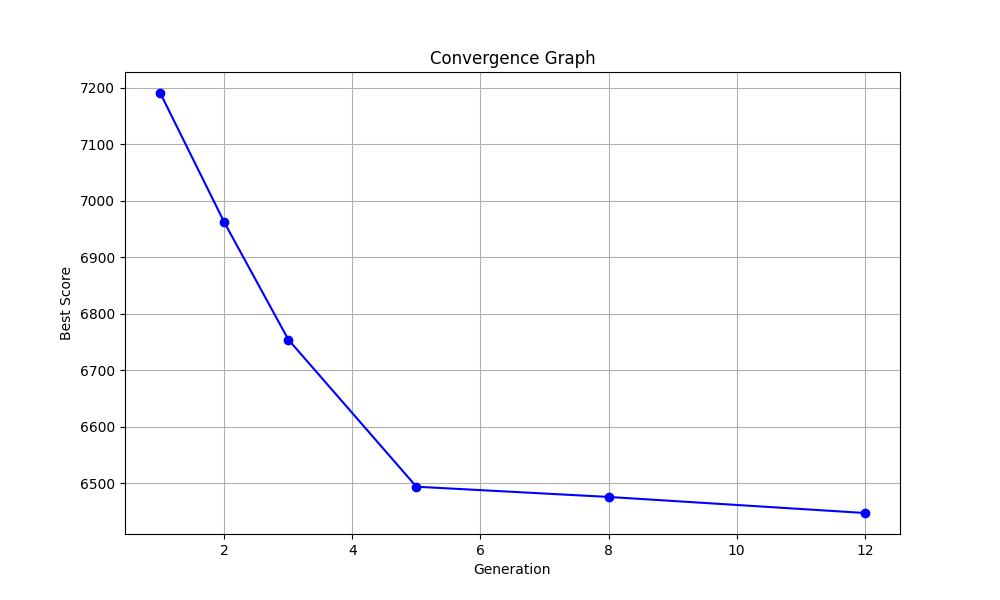
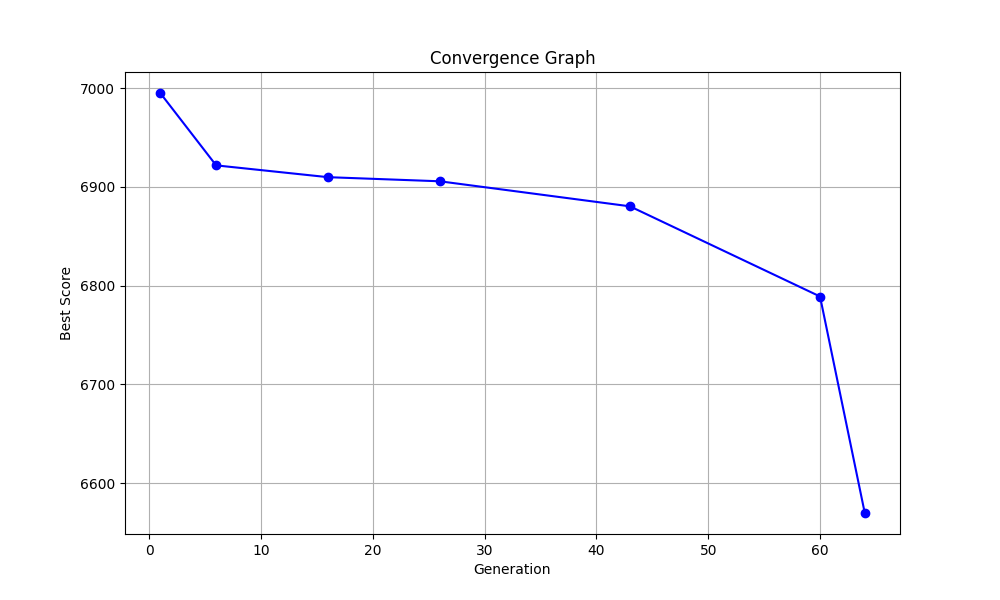
made some changes.

diff --git a/Obj_func_v2.2.py b/Obj_func_v2.2.py
@@ -1,0 +1,325 @@
+'''
+The purpose of this code is...
+
+
+Authors:
+ - Austin Erickson "The Brain"
+ - Isaac Detiege "The Muscle"
+ - Ammon Miller "The Milkman" (Copilot generated, lol)
+
+Last updated: 3/27/2025 around 3pm
+
+Notes:
+- Roll the dice method (40% p1, 40% p2, 20% mutation)
+
+'''
+#---------------------------------
+# Import 
+#---------------------------------
+import numpy as np
+import matplotlib.pyplot as plt
+from multiprocessing import Pool
+
+
+#---------------------------------
+# Functions
+#---------------------------------
+
+def string_to_index_optimized(string):
+    # Vectorized approach for string-to-index conversion
+    string = string.lower().replace(" ", "")
+    char_map = {chr(i + 97): i for i in range(26)}
+    char_map.update({'.': 26, ',': 27, '?': 28, "'": 29})
+    return np.array([char_map.get(char, -1) for char in string])
+    
+def objective_function_optimized(x, string_index):
+    home_positions = np.array([[1.5, 2], [3.5, 2.5], [5.5, 2.5], [7.5, 2.5]])  # Predefine finger positions
+    penalties = [0.5, 0, 0, 0]  # Pinky, Ring, Middle, Index penalties
+    same_finger_penalty = 0.5
+    
+    # Initialize counters
+    finger_counts = [0, 0, 0, 0]  # Pinky, Ring, Middle, Index
+    same_finger_penalty_count = 0
+    score = 0
+    
+    prev_active_finger = -1
+    prev_finger_position = np.inf
+    
+    for key in string_index:
+        next_finger_position = x[key]
+        if next_finger_position[0] <= 2:
+            next_active_finger = 0
+        elif next_finger_position[0] <= 4:
+            next_active_finger = 1
+        elif next_finger_position[0] <= 6:
+            next_active_finger = 2
+        else:
+            next_active_finger = 3
+
+        # Apply penalties
+        active_finger_penalty = penalties[next_active_finger]
+        finger_counts[next_active_finger] += 1
+        
+        # Same finger penalty logic
+        if prev_active_finger == next_active_finger:
+            same_finger_penalty_count += 1
+            same_finger_penalty_value = same_finger_penalty
+        else:
+            same_finger_penalty_value = 0
+
+        # Calculate distance
+        current_finger_position = home_positions[next_active_finger] if prev_active_finger != next_active_finger else prev_finger_position
+        distance = ((current_finger_position[0] - next_finger_position[0])**2 + (current_finger_position[1] - next_finger_position[1])**2)**0.5
+        
+        # Update score
+        score += distance + active_finger_penalty + same_finger_penalty_value
+        
+        # Update previous finger position and active finger
+        prev_active_finger = next_active_finger
+        prev_finger_position = next_finger_position
+    
+    return score, finger_counts
+
+def generate_individual():  
+    # Initialize person 
+    person = np.zeros((30,2))
+    used_pairs = set()
+
+    for i in range(30):
+        while True:
+            x_val = np.random.randint(1, 9)         # Random x value between 1 and 8
+            if x_val == 1 or x_val == 2:            # Pinky range
+                y_val = np.random.randint(1, 4)     # Choose y value between 1 and 3
+            else:                                   # Other fingers range
+                y_val = np.random.randint(1, 5)     # Choose y value between 1 and 4
+
+            if (x_val, y_val) not in used_pairs:
+                used_pairs.add((x_val, y_val))
+                person[i] = (x_val, y_val)
+                break
+    return person
+
+def generate_individual_parallel(_):
+    # This function is used by Pool to generate a single individual
+    return generate_individual()
+
+def generate_population_parallel(num_people):
+    # Use a Pool to generate individuals in parallel
+    with Pool() as pool:
+        population = pool.map(generate_individual_parallel, range(num_people))
+    return population
+
+def parallel_objective_function(args):
+    x, string_index = args
+    return objective_function_optimized(x, string_index)
+
+def generate_offspring(parents, number_offspring, roll_dice_parent):
+    offspring = []
+    while len(offspring) < number_offspring:
+        # Randomly select two parents
+        indices = np.random.choice(len(parents), size=2, replace=False)  # Sample indices
+        parent1, parent2 = parents[indices[0]], parents[indices[1]]  # Select parents using indices
+
+        # Create offspring from the two parents
+        child = np.zeros_like(parent1)  # Initialize empty offspring
+
+        used_keys = set()  # Track which key positions have been used
+
+        while len(used_keys) < 30:  # Ensure all keys are assigned
+            for i in range(30):
+                if tuple(child[i]) in used_keys:  # Skip if already used
+                    continue
+
+                rand = np.random.rand()  # Generate a random number between 0 and 1
+
+                # Choose parent or mutation based on probability
+                if rand < roll_dice_parent:  
+                    if tuple(parent1[i]) not in used_keys:
+                        child[i] = parent1[i]  # Inherit from parent1
+                        used_keys.add(tuple(parent1[i]))
+                elif rand < (2 * roll_dice_parent):  
+                    if tuple(parent2[i]) not in used_keys:
+                        child[i] = parent2[i]  # Inherit from parent2
+                        used_keys.add(tuple(parent2[i]))
+                else:  
+                    while True:  # Generate a random position if mutation occurs
+                        x_val = np.random.randint(1, 9)
+                        y_val = np.random.randint(1, 4) if x_val <= 2 else np.random.randint(1, 5)
+                        if (x_val, y_val) not in used_keys:
+                            child[i] = [x_val, y_val]  # Assign new random position
+                            used_keys.add((x_val, y_val))
+                            break
+
+        offspring.append(child)  # Add the child to the offspring list
+
+    return offspring
+
+
+def genetic_algorithm_optimized(f, num, perc, roll, tol, gen_limit, string_index):
+    number_people = num[0]
+    number_offspring = num[1]
+    perc_clone = perc[0]
+    perc_parents = perc[1]
+    perc_offspring = perc[2]
+    roll_dice_parent = roll[0]
+    roll_dice_mutation = roll[1]
+
+    population = generate_population_parallel(number_people)
+    best_score_unchanged_count = 0
+    history_best_score = float('inf')
+    best_individuals = []
+    best_scores = []
+    best_counters = []
+    gen_counter = 0
+
+    while gen_counter < gen_limit:
+        gen_counter += 1
+        print("Generation:", gen_counter)
+
+        # Parallel fitness evaluation using Pool
+        with Pool() as pool:
+            fitness_results = pool.map(parallel_objective_function, [(p, string_index) for p in population])
+        
+        sorted_data = sorted(zip(population, fitness_results), key=lambda x: x[1][0])
+        sorted_population = [x[0] for x in sorted_data]
+        best_score, best_counter = sorted_data[0][1]
+        
+        # Store the best individual data
+        best_individuals.append(sorted_population[0])
+        best_scores.append(best_score)
+        best_counters.append(best_counter)
+        
+        # Update convergence criteria
+        if best_score < history_best_score:
+            history_best_score = best_score
+            best_score_unchanged_count = 0
+            print("Best Score:", best_score)
+        else:
+            best_score_unchanged_count += 1
+
+        if best_score_unchanged_count >= tol:
+            break
+
+        ## Selection ##
+        clone = sorted_population[:int(number_people * perc_clone)]
+        parents = sorted_population[:int(number_people * perc_parents)]
+
+        ## Crossover ##
+        offspring = generate_offspring(parents, number_offspring, roll_dice_parent)
+
+        population = clone + offspring
+
+    return best_individuals, best_scores, best_counters
+
+
+def print_keyboard_layout(x):
+    layout = [[" " for _ in range(8)] for _ in range(4)]
+    letters = "abcdefghijklmnopqrstuvwxyz.,?'"
+    
+    for i in range(30):
+        x_pos = int(x[i][0]) - 1
+        y_pos = 3 - (int(x[i][1]) - 1)  # Flip the y-axis
+        layout[y_pos][x_pos] = letters[i]
+    
+    print("  1 2 3 4 5 6 7 8")
+    print(" +----------------")
+    for i in range(4):
+        row = f"{4-i}| " + " ".join(layout[i])  # Adjust row numbering
+        print(row)
+        
+
+string = "The sun’s warm glow fell across the field. A breeze stirred, rustling leaves as birds chirped. The dog’s bark echoed while a cat lounged nearby. People walked along quiet paths, sharing thoughts. What joy exists in moments like these? Clouds drifted above, shadows shifting below. Foxes dashed through the brush. Time’s passage often feels swift. Yet, laughter lingers. Jars of jam lined the shelf. Vivid quilts hung, displaying vibrant hues. Zebras grazed in far-off lands. Quirky scenes unfold daily. Few question why. Life’s charm, both simple and profound, remains constant. Is there anything more precious than this? \" \
+    Children played along the park’s edge, their laughter mingling with the breeze. Ducks glided across the pond, ripples trailing behind. Tall trees stood in silent watch, their branches swaying softly. Nearby, a gardener tended flowers, carefully pruning each stem. The air smelled of fresh earth and blooming petals. Squirrels scampered up tree trunks, their tails flicking in delight. Nature thrived, unburdened by time’s relentless march. \
+    A man with a weathered hat sat upon a bench, his hands clasped together. His eyes traced the flight of a passing bird. What memories lingered within his thoughts? Each wrinkle on his face told a story, shaped by years of joy and sorrow. A nearby jogger passed, earbuds in, oblivious to the world around her. Life continued, ever in motion. \
+    By the water’s edge, a family spread a picnic blanket. Sandwiches, fruit, and lemonade filled their basket. The youngest child giggled as she chased a butterfly. The parents watched with gentle smiles, savoring the fleeting moments of innocence. Sunlight dappled the ground, illuminating patches of vibrant green. A dragonfly hovered above the reeds, its wings glinting. \
+    In the distance, an old farmhouse stood, its red paint peeling. Wooden shutters, once bright, now bore the marks of age. The wind stirred the tall grass, sending waves across the golden field. A black cat perched on the porch, eyes gleaming. Beside the barn, rusted tools lay abandoned. Yet, even in neglect, beauty endured. \
+    A narrow dirt road wound through the countryside. Along its path, wildflowers bloomed in bursts of yellow and purple. Cows grazed lazily, tails flicking away flies. A lone cyclist pedaled past, the hum of tires blending with the chirp of crickets. Overhead, a hawk soared, scanning the ground below. \
+    Night approached, and the sky deepened to indigo. Stars blinked into existence, scattered like gems. A crescent moon hung low, casting silver light. In a small town nearby, streetlamps flickered on. Porch lights glowed warmly, welcoming home weary travelers. Laughter spilled from an open window, the sound of a family gathered for dinner. \
+    A couple strolled hand in hand, their steps in perfect rhythm. They paused beneath a lamppost, its glow casting a halo around them. The man whispered something, drawing a soft laugh from his companion. Shadows danced along the pavement. Above them, the stars watched in silent approval. \
+    Time passed, as it always does. Seasons changed, painting the world in hues of gold, crimson, and green. Children grew, their laughter echoing through the years. Leaves fell, carpeting the ground in a crunchy mosaic. Snow blanketed rooftops, muffling the world in a quiet embrace. Yet, the cycle continued. \
+    In spring, blossoms burst forth, coloring branches with pink and white. Bees buzzed, drawn to the sweet nectar. Farmers tilled the soil, their hands darkened with earth. Rain fell in gentle showers, nourishing the eager roots. Frogs croaked from hidden ponds. Life thrived. \
+    Summer brought long days of warmth. Fields of wheat swayed under the sun’s golden gaze. Children dashed through sprinklers, squealing with delight. Ice cream dripped from cones, melting faster than it could be licked. Fireflies blinked in the twilight, their glow like tiny stars. Laughter echoed from backyard gatherings. \
+    Autumn arrived with a crisp breeze. Leaves turned brilliant shades of amber and scarlet. Pumpkins dotted fields, their orange shells gleaming. Families wandered through corn mazes, laughter guiding their way. Bonfires crackled, sending sparks skyward. The scent of cinnamon and apple cider lingered in the air. \
+    Winter followed, wrapping the world in icy stillness. Frost traced delicate patterns upon windowpanes. Children built snowmen, their mittens damp with melted snow. Smoke curled from chimneys, mingling with the cold air. The ground glittered beneath the moonlight, each snowflake unique. Silence reigned, broken only by the crunch of boots upon snow. \
+    Yet, through every season, life endured. The fox still leaped, the dog barked, and the cat purred. People gathered, shared stories, and held one another close. Time moved forward, but memories remained. And in those memories, joy blossomed. \
+    A robin sang at dawn, its cheerful notes welcoming the sun. Dew clung to blades of grass, shimmering like jewels. A farmer’s rooster crowed, greeting the day with pride. Somewhere, a child stirred beneath warm blankets, dreaming of distant adventures. \
+    The ocean’s waves crashed against the shore, sending salty mist into the air. Gulls circled above, their cries mingling with the breeze. A lighthouse stood tall, its beam sweeping across the darkened waters. Sailboats bobbed in the harbor, their sails furled. \
+    Farther inland, mountains rose, their peaks kissed by clouds. Pine trees lined the slopes, their needles dusted with snow. Hikers paused to admire the view, their breath visible in the thin air. A hawk soared, its sharp eyes scanning the forest below. \
+    In bustling cities, people hurried along crowded sidewalks. Taxi horns blared, and street vendors called to passing customers. Neon signs flickered, illuminating the night. Yet, even amidst the chaos, beauty lingered. Musicians played on street corners, their melodies weaving through the urban hum. \
+    In quieter towns, church bells rang, their chimes echoing across the valley. Children rode bicycles along winding paths. Farmers tended their fields, the scent of fresh hay filling the air. Life moved at a gentler pace. \
+    As twilight fell, the sky blazed with hues of pink and orange. Couples sat on porches, watching the day’s end. Fireflies emerged, their soft glow dancing in the dark. Stars appeared, each one a reminder of the vastness beyond. \
+    The world whispered its stories to those who listened. From the rustle of leaves to the crash of waves, every sound held meaning. Even the silence spoke, offering solace to those who sought it. \
+    So, as time marches on, may we pause to savor the moments that remain. The laughter of loved ones, the warmth of the sun, the simple joy of a breeze through the trees. For in these fleeting instants, life’s beauty endures. \
+    And perhaps, that is enough. \
+    "
+
+
+#---------------------------------
+# Optimize
+#---------------------------------
+# Parameters
+number_of_people = 200 # Number of people in the population
+number_of_offspring = 4 # Number of offspring per pair of parents
+
+percentage_clone = 0.1  # Percentage of the population to clone (top 10%)
+percentage_parents = 0.5  # Percentage of the population to use as parents (top 50%)
+percentage_offspring = 0.9  # Percentage of the population to be offspring (90% of the population)
+
+tol = 20
+
+gen_limit = 10000
+
+roll_dice_mutation = 0.3
+roll_dice_parent = (1 - roll_dice_mutation) / 2
+
+# Make sure the values are valid
+if percentage_clone + percentage_offspring != 1:
+    raise ValueError("The sum of percentage_clone and percentage_offspring must equal 1. Please adjust the values.")
+
+if number_of_people - number_of_people * percentage_clone > number_of_offspring * number_of_people * percentage_parents / 2:
+    raise ValueError("The number of people after cloning is too small to produce the required offspring. Please adjust the values.")
+
+
+
+num = np.array([number_of_people, number_of_offspring])
+perc = np.array([percentage_clone, percentage_parents, percentage_offspring])
+roll = np.array([roll_dice_parent, roll_dice_mutation])  # Roll the dice method for parent selection and mutation
+
+best_individuals, best_scores, best_counters = genetic_algorithm_optimized(objective_function_optimized, num, perc, roll, tol, gen_limit, string_to_index_optimized(string))
+
+
+#---------------------------------
+# Print & Plot Results
+#---------------------------------
+# Print results only when the score changes
+previous_score = None
+generations = []
+filtered_best_scores = []
+# Header for Results
+print("\n" + "="*40)
+print("Genetic Algorithm Optimization Results")
+print("="*40 + "\n")
+
+for i, (score, counter, individual) in enumerate(zip(best_scores, best_counters, best_individuals)):
+    if score != previous_score:
+        print(f"Generation {i + 1}:")
+        print(f"Best Score: {score}")
+        print(f"Counter: {counter}")
+        print_keyboard_layout(individual)
+        print()
+        previous_score = score
+        generations.append(i + 1)  # Track the generation for the convergence graph
+        filtered_best_scores.append(score)  # Track the best score only when it changes
+
+plt.figure(figsize=(10, 6))
+plt.plot(generations, filtered_best_scores, marker='o', linestyle='-', color='b')
+plt.xlabel('Generation')
+plt.ylabel('Best Score')
+plt.title('Convergence Graph')
+plt.grid(True)
+plt.locator_params(axis='x', nbins=10)  # Limit the number of x-axis grid lines to 10
+plt.savefig('genetic_conv.png')  # Save the figure as genetic_conv.png
+plt.show()
+
+
+

diff --git a/Objective_func_v2.py b/Objective_func_v2.py
@@ -234,7 +234,7 @@ def genetic_algorithm(f, num, perc, roll, tol, gen_limit):
         ## Crossover ##
         # Produce perc_offspring% offspring
         offspring = []
-        while len(offspring) < number_people * perc_offspring:
+        while len(offspring) < number_offspring:
             # Randomly select two parents
             indices = np.random.choice(len(parents), size=2, replace=False)  # Sample indices
             parent1, parent2 = parents[indices[0]], parents[indices[1]]  # Select parents using indices
@@ -295,14 +295,14 @@ def print_keyboard_layout(x):
 # Optimize
 #---------------------------------
 # Parameters
-number_of_people = 20 # Number of people in the population
+number_of_people = 200 # Number of people in the population
 number_of_offspring = 4 # Number of offspring per pair of parents
 
 percentage_clone = 0.1  # Percentage of the population to clone (top 10%)
 percentage_parents = 0.5  # Percentage of the population to use as parents (top 50%)
 percentage_offspring = 0.9  # Percentage of the population to be offspring (90% of the population)
 
-tol = 50
+tol = 30
 
 gen_limit = 10000
 
